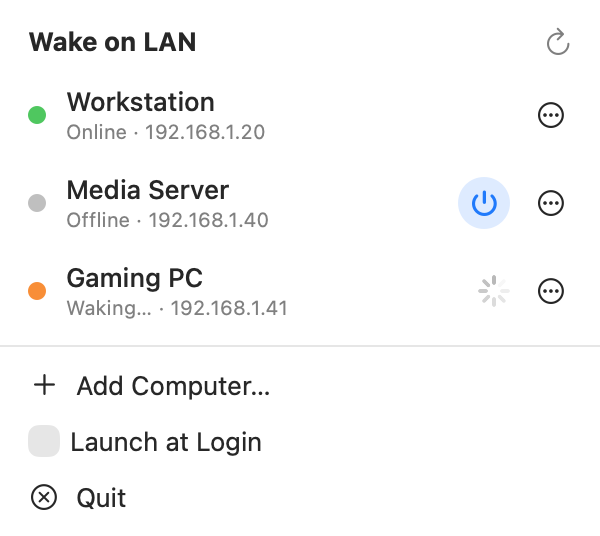
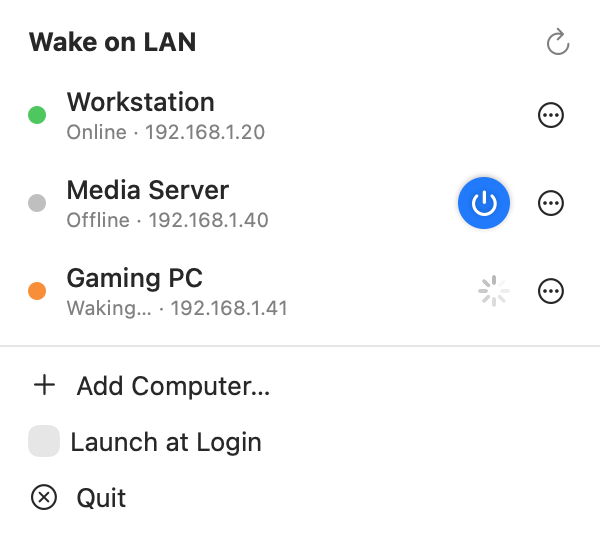
Make the wake button solid so it stays readable on translucent menus

Changed region(s): [[0.75, 0.3284, 0.87, 0.4478]]

diff --git a/Sources/WOLMenubar/Views.swift b/Sources/WOLMenubar/Views.swift
@@ -117,7 +117,7 @@ struct DeviceRow: View {
     }
 }
 
-/// Round power button that lights up in the accent colour on hover.
+/// Round, solid power button; brightens and grows slightly on hover.
 struct WakeButton: View {
     let action: () -> Void
     @State private var hovering = false
@@ -126,12 +126,15 @@ struct WakeButton: View {
         Button(action: action) {
             Image(systemName: "power")
                 .font(.system(size: 12, weight: .bold))
-                .foregroundStyle(hovering ? Color.white : Color.accentColor)
+                .foregroundStyle(.white)
                 .frame(width: 26, height: 26)
-                .background(Circle().fill(hovering ? Color.accentColor : Color.accentColor.opacity(0.15)))
+                .background(Circle().fill(Color.accentColor))
+                .brightness(hovering ? 0.08 : 0)
+                .scaleEffect(hovering ? 1.08 : 1)
+                .shadow(color: .black.opacity(0.25), radius: 1.5, y: 0.5)
         }
         .buttonStyle(.plain)
-        .onHover { hovering = $0 }
+        .onHover { h in withAnimation(.easeOut(duration: 0.12)) { hovering = h } }
         .help("Wake up")
         .accessibilityLabel("Wake up")
     }
